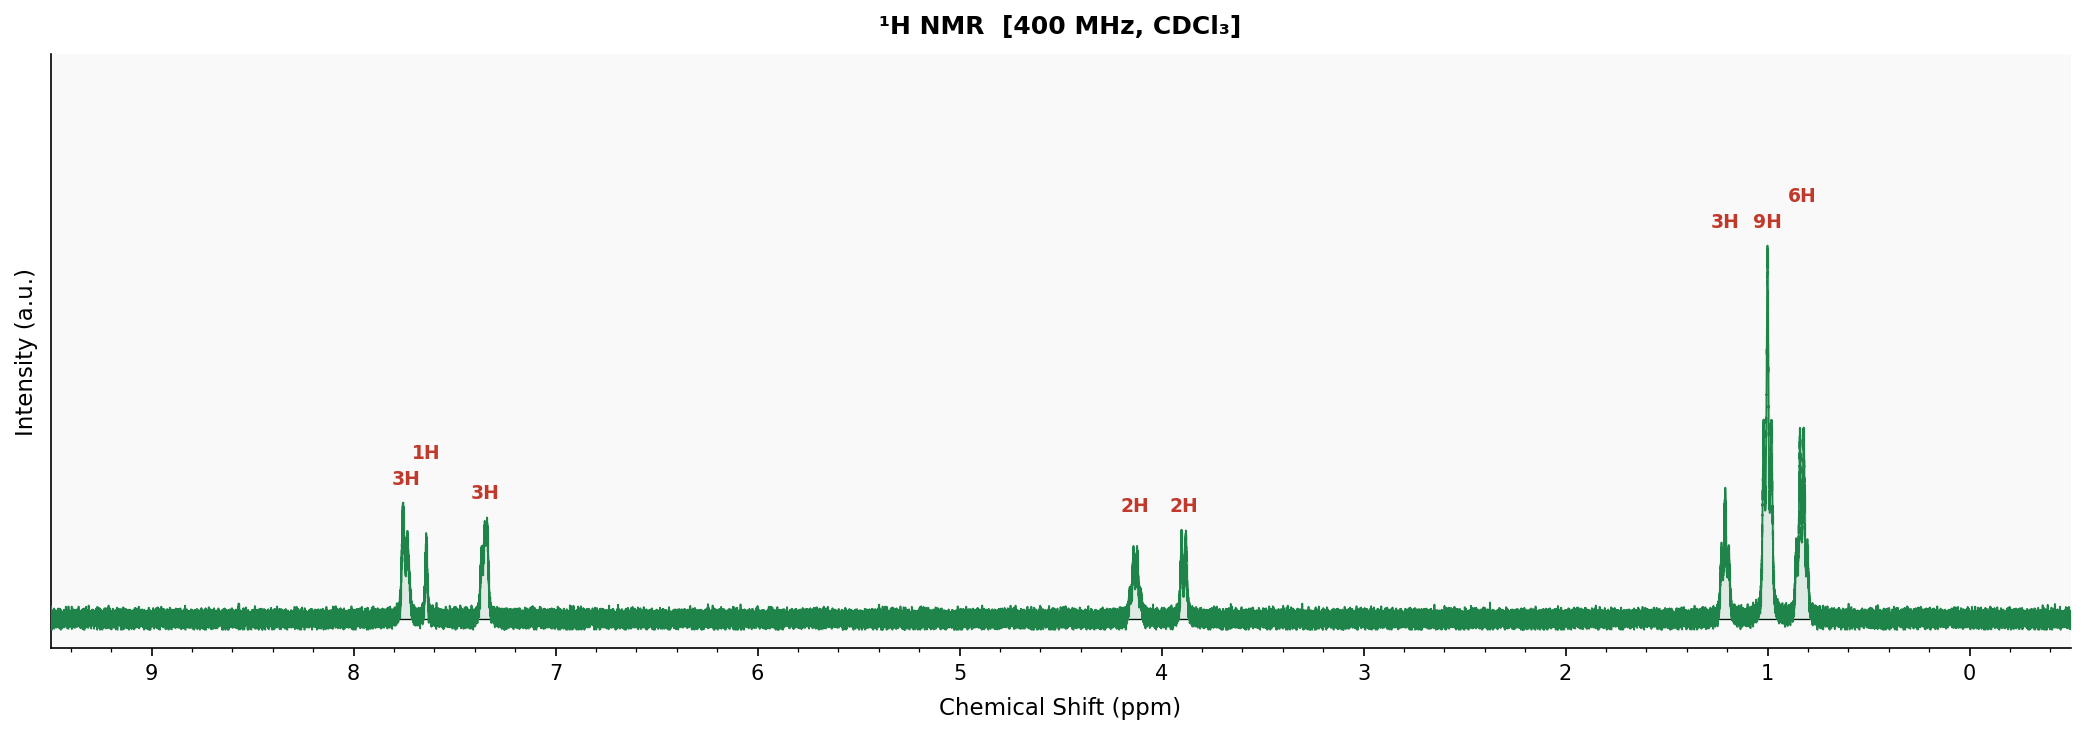
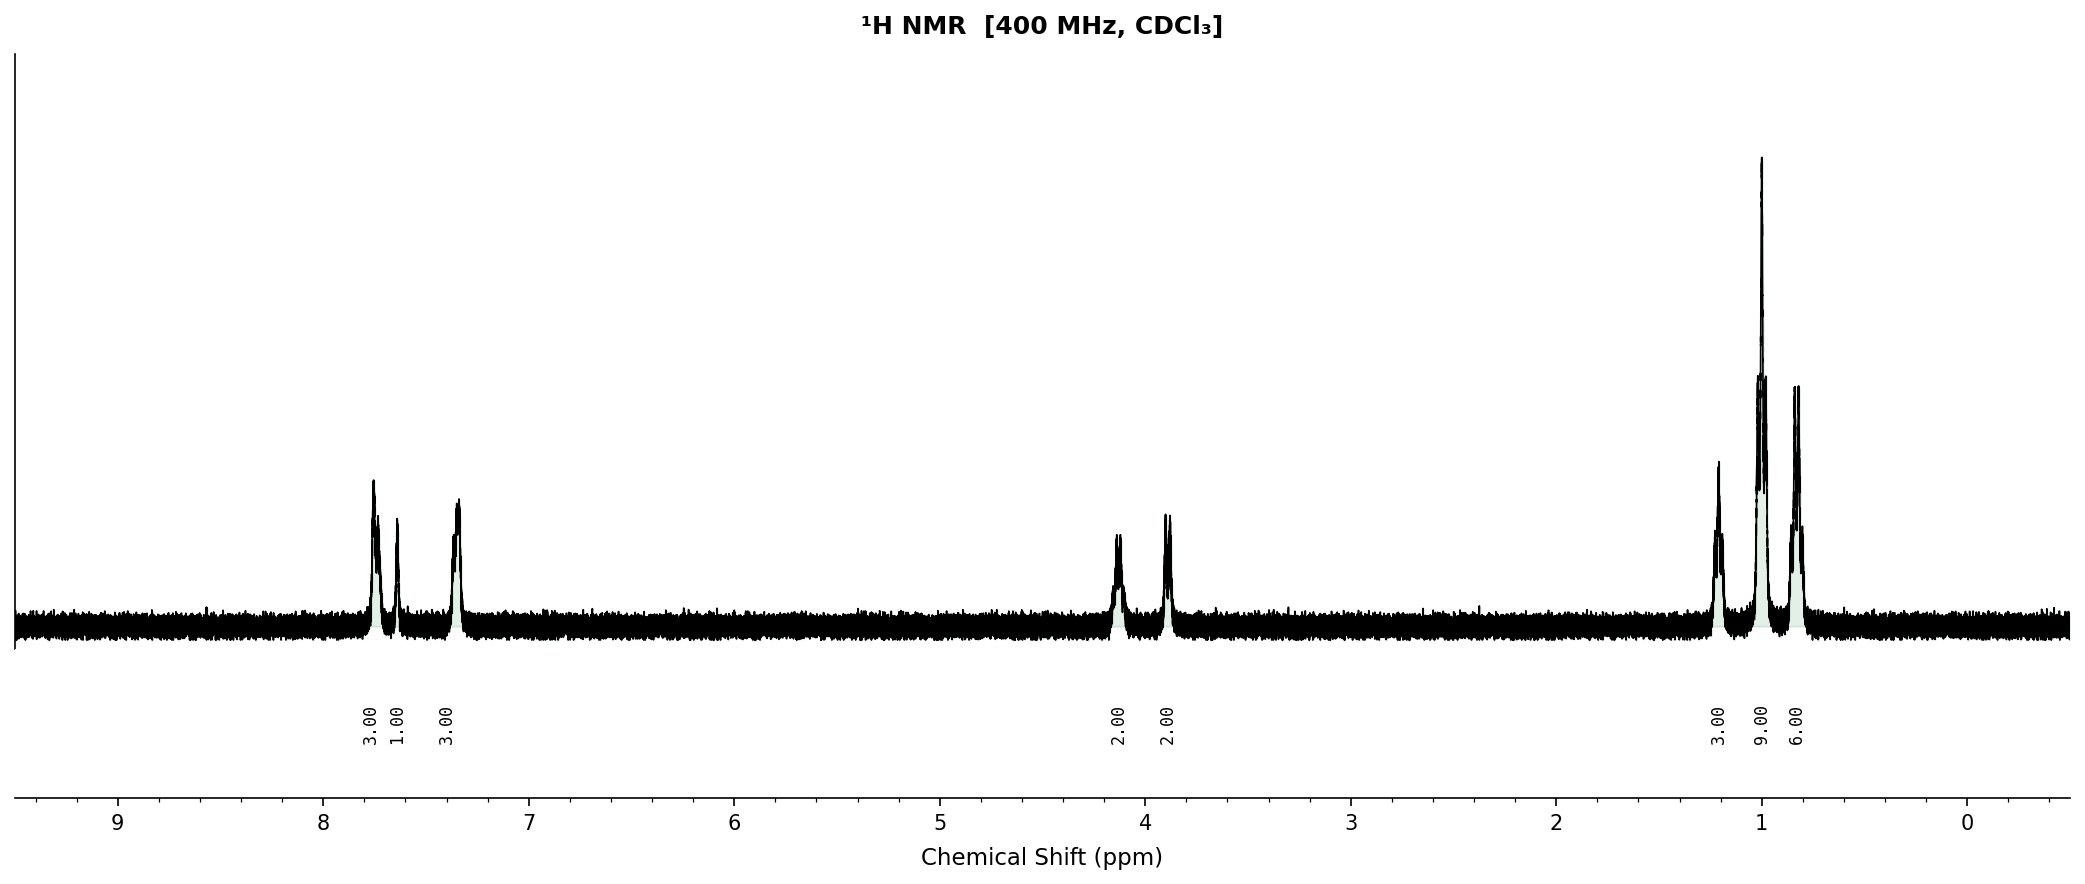
update

Changed region(s): [[0.0, 0.2398, 0.9976, 0.9891], [0.4053, 0.0, 0.5923, 0.0599], [0.0, 0.3597, 0.0312, 0.5995]]

diff --git a/src/spectra.py b/src/spectra.py
@@ -289,47 +289,52 @@ def HygrogenToSpectra(data: dict, image_path: str = 'spectra_1H.png') -> plt.Fig
     y = _add_noise(y, snr=100.0, rng=rng)
     y = np.clip(y, -0.03, None)
 
-    # ── 绘图 ──
-    fig, ax = plt.subplots(figsize=(14, 5), dpi=150)
-    ax.fill_between(x, 0, y, alpha=0.12, color='#1e8449')
-    ax.plot(x, y, color='#1e8449', linewidth=0.85, zorder=3)
+    # ── 双子图布局：上谱线，下积分 ──
+    # 参考图风格：谱线与积分曲线在各自独立的行，积分行高约为谱线行的 1/4
+    fig, (ax_spec, ax_int) = plt.subplots(
+        2, 1, figsize=(14, 6), dpi=150,
+        gridspec_kw={'height_ratios': [4, 1], 'hspace': 0.0}
+    )
 
-    # 在每段峰顶标注质子数（红色，防重叠）
-    _style_axes(ax, freq_label, ppm_min, ppm_max, "¹H NMR", '#1e8449')
-    ax.set_ylim(-0.08, 1.55)
-    fig.canvas.draw()   # 触发渲染，使 get_window_extent 可用
 
-    renderer = fig.canvas.get_renderer()
-    placed = []   # 已放置的标签 bbox 列表（display coords）
 
-    # 按 shift_center 排序（从右到左，NMR 习惯）
-    sorted_labels = sorted(integral_data, key=lambda t: t[0], reverse=True)
+    # ── 谱线子图 ──
+    ax_spec.fill_between(x, 0, y, alpha=0.12, color='#1e8449')
+    ax_spec.plot(x, y, color='black', linewidth=0.8, zorder=3)
+    ax_spec.set_xlim(ppm_max, ppm_min)
+    ax_spec.set_ylim(-0.05, 1.25)
+    ax_spec.spines['top'].set_visible(False)
+    ax_spec.spines['right'].set_visible(False)
+    ax_spec.spines['bottom'].set_visible(False)
+    ax_spec.tick_params(axis='x', bottom=False, labelbottom=False)
+    ax_spec.tick_params(axis='y', left=False, labelleft=False)
+    ax_spec.set_title(f"¹H NMR  [{freq_label}, CDCl₃]",
+                      fontsize=12, fontweight='bold', pad=10)
 
-    for shift_center, shift_max, n_H in sorted_labels:
-        hw = max(abs(shift_max - shift_center) + 0.25, 0.25)
-        mask = (x >= shift_center - hw) & (x <= shift_center + hw)
-        local_max = float(y[mask].max()) if mask.any() else 0.05
-        label = f'{int(n_H)}H' if n_H == int(n_H) else f'{n_H}H'
+    # ── 积分子图（只显示数字）──
+    ax_int.set_xlim(ppm_max, ppm_min)
+    ax_int.set_ylim(0, 1)
+    ax_int.spines['top'].set_visible(False)
+    ax_int.spines['right'].set_visible(False)
+    ax_int.spines['left'].set_visible(False)
+    ax_int.tick_params(axis='y', left=False, labelleft=False)
+    ax_int.set_xlabel("Chemical Shift (ppm)", fontsize=11, labelpad=6)
+    ax_int.xaxis.set_major_locator(ticker.MultipleLocator(1))
+    ax_int.xaxis.set_minor_locator(ticker.MultipleLocator(0.2))
+    ax_int.tick_params(axis='x', direction='out', length=4)
 
-        # 初始 y 位置：峰顶上方
-        y_label = local_max + 0.04
-        step = 0.07   # 每次上移量
+    # 只显示数值，竖排居中
+    for shift_center, shift_max, n_H in integral_data:
+        x_mid = (shift_center + shift_max) / 2
+        label = f'{n_H:.2f}' if n_H != int(n_H) else f'{int(n_H):.2f}'
+        ax_int.text(x_mid, 0.5, label,
+                    ha='center', va='center', fontsize=8,
+                    color='black', rotation=90,
+                    fontfamily='monospace')
 
-        for _ in range(20):   # 最多尝试上移 20 次
-            txt = ax.text(shift_center, y_label, label,
-                          ha='center', va='bottom', fontsize=9,
-                          color='#c0392b', fontweight='bold')
-            bb = txt.get_window_extent(renderer=renderer)
-            # 检查与已放置标签是否重叠
-            overlap = any(bb.overlaps(p) for p in placed)
-            if not overlap:
-                placed.append(bb)
-                break
-            else:
-                txt.remove()
-                y_label += step
-    ax.xaxis.set_major_locator(ticker.MultipleLocator(1))
-    ax.xaxis.set_minor_locator(ticker.MultipleLocator(0.2))
+    # 共享 x 轴刻度
+    ax_spec.set_xlim(ppm_max, ppm_min)
+    ax_int.set_xlim(ppm_max, ppm_min)
 
     plt.tight_layout()
     fig.savefig(image_path, dpi=150, bbox_inches='tight')